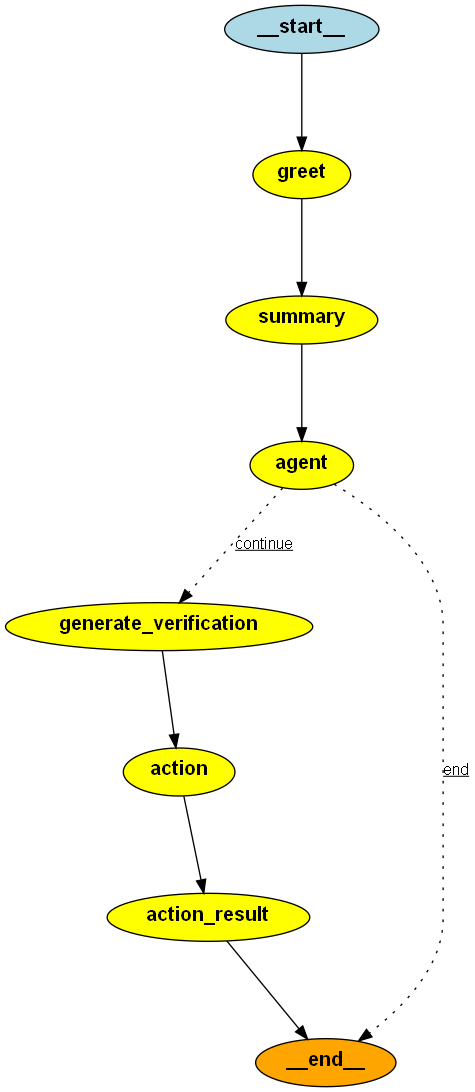
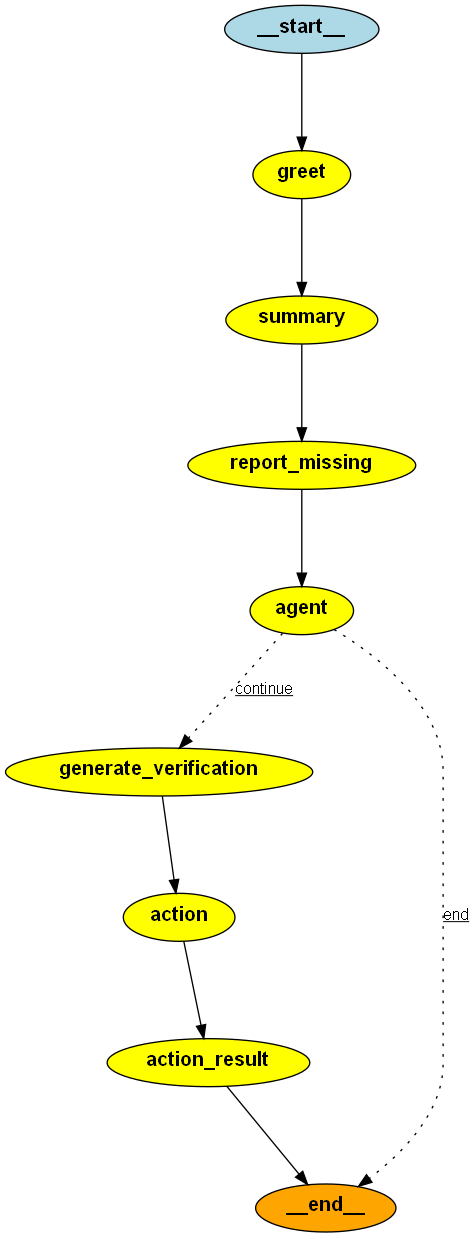
Graph workflow structure changed again

diff --git a/langgraph_agent/workflow.py b/langgraph_agent/workflow.py
@@ -37,7 +37,6 @@ class Workflow:
         return new_state
 
     def generate_dataset_summary(self, state):
-        print("summary")
         messages = state["messages"]
 
         tool_call = {
@@ -52,6 +51,8 @@ class Workflow:
             tool_input=tool_call["args"],
         )
         response = self.tool_executor.invoke(action)
+        print(response)
+        response = json.dumps(response, indent=4)
 
         tool_message = ToolMessage(
             content=str(response),
@@ -73,6 +74,47 @@ class Workflow:
             "messages": messages,
             "last_message_type": MessageTypes.CHAT,
             "last_called_tool": [tool_call]
+        }
+        return new_state
+
+    def report_missing_ratios(self, state):
+        messages = state["messages"]
+
+        tool_call = {
+            "name": "calculate_missing_values",
+            "args": {},
+            "id": "tool_call_2"  # Unique identifier for the tool call
+        }
+
+        # Create the ToolInvocation object
+        action = ToolInvocation(
+            tool=tool_call["name"],
+            tool_input=tool_call["args"],
+        )
+        response = self.tool_executor.invoke(action)
+        response = json.dumps(response, indent=4)
+
+        tool_message = ToolMessage(
+            content=str(response),
+            name=action.tool,
+            tool_call_id=tool_call["id"]
+        )
+
+        # We return a list, because this will get added to the existing list
+        messages += [tool_message]
+
+        result_prompt = (f"Write a result message about user's dataset. The following dictionary is the missing value "
+                         f"ratios of the dataset.\n{response}\nExamine the results for user. If missing value ratio of "
+                         f"any column is bigger then 5%, warn the user about this data considered as manipulated")
+
+        messages += [HumanMessage(content=result_prompt)]
+        response = self.model.llm.invoke(messages)
+        messages += [response]
+
+        new_state = {
+            "messages": messages,
+            "last_message_type": MessageTypes.CHAT,
+            "last_called_tool": state["last_called_tool"] + [tool_call]
         }
         return new_state
 
@@ -168,6 +210,7 @@ class Workflow:
 
         workflow.add_node("greet", self.generate_greeting)
         workflow.add_node("summary", self.generate_dataset_summary)
+        workflow.add_node("report_missing", self.report_missing_ratios)
         workflow.add_node("agent", self.call_model)
         workflow.add_node("generate_verification", self.generate_dynamic_verification)
         workflow.add_node("action", self.call_tool)
@@ -175,7 +218,8 @@ class Workflow:
 
         workflow.add_edge(START, "greet")
         workflow.add_edge("greet", "summary")
-        workflow.add_edge("summary", "agent")
+        workflow.add_edge("summary", "report_missing")
+        workflow.add_edge("report_missing", "agent")
         workflow.add_edge("generate_verification", "action")
         workflow.add_edge("action", "action_result")
         workflow.add_edge("action_result", END)

diff --git a/langgraph_agent/tools/tools.py b/langgraph_agent/tools/tools.py
@@ -14,7 +14,7 @@ class ToolEditor:
         self.tool_node = ToolNode(self.tools)
 
     def get_tools(self) -> list:
-        return [summarize_dataset, handle_missing_values]
+        return [summarize_dataset, calculate_missing_values, handle_missing_values]
 
 
 df = pd.read_csv(r"C:\Users\emirs\Documents\Projects\python\LanggraphGPT_DataProcessor\dataset\death_causes.csv")
@@ -57,10 +57,10 @@ def summarize_dataset() -> dict:
     for column in dataset.columns:
         col_data = dataset[column]
         summary[column]['type'] = str(col_data.dtype)
-        summary[column]['min'] = col_data.min()
-        summary[column]['max'] = col_data.max()
-        summary[column]['mean'] = col_data.mean() if col_data.dtype in ['int64', 'float64'] else None
-        summary[column]['median'] = col_data.median() if col_data.dtype in ['int64', 'float64'] else None
+        summary[column]['min'] = float(col_data.min()) if col_data.dtype in ['int64', 'float64'] else col_data.min()
+        summary[column]['max'] = float(col_data.max()) if col_data.dtype in ['int64', 'float64'] else col_data.max()
+        summary[column]['mean'] = float(col_data.mean()) if col_data.dtype in ['int64', 'float64'] else None
+        summary[column]['median'] = float(col_data.median()) if col_data.dtype in ['int64', 'float64'] else None
 
         try:
             summary[column]['mode'] = mode(col_data.dropna())
@@ -71,24 +71,28 @@ def summarize_dataset() -> dict:
 
 
 @tool
-def get_dataset_summary():
+def calculate_missing_values() -> dict:
     """
-    Generate a summary of the dataset.
-    This function retrieves a dataset,
-    computes descriptive statistics for all numerical columns in the dataset,
-    and returns the summary as a formatted string.
-    Parameters:
-    ----------
-    query : str
-        The query should be a valid string that can be used to fetch the relevant subset of the dataset.
+    Calculate the missing value ratios and counts for each column in a DataFrame.
+
     Returns:
-    -------
-    str
-        A string representation of the summary statistics for the dataset,
-        including metrics such as count, mean, standard deviation, min, max,
-        and quartiles for each numerical column.
+    - dict: A dictionary where the keys are column names and the values are dictionaries containing the
+      count and ratio of missing values for each column.
     """
-    return df.describe().to_string()
+    missing_values_info = {}
+
+    total_rows = len(df)
+
+    for column in df.columns:
+        missing_count = df[column].isna().sum()
+        missing_ratio = missing_count / total_rows
+
+        missing_values_info[column] = {
+            'missing_count': int(missing_count),
+            'missing_ratio': missing_ratio
+        }
+
+    return missing_values_info
 
 
 @tool

diff --git a/main.py b/main.py
@@ -22,14 +22,25 @@ async def on_chat_start():
             content=response.content, accept=["text/csv"], max_files=1
         ).send()
 
+    await cl.Message(content="Preparing dataset summary...").send()
     dataset = files[0]
     set_dataset(dataset.path)
     app.stream_app_catch_tool_calls()
 
     snapshot = app.app_runnable.get_state(app.thread)
-    message = snapshot.values["messages"][-2]
     print(snapshot.values)
-    await cl.Message(content=message.content).send()
+    tool_message = snapshot.values["messages"][-3]
+    tool_message_json = json.loads(tool_message.content)
+    await cl.Message(content=tool_message_json).send()
+
+    result_message = snapshot.values["messages"][-1]
+    await cl.Message(content=result_message.content).send()
+
+    actions = [
+        cl.Action(name="approve_preprocess", value="approve", description="approve"),
+        cl.Action(name="deny_preprocess", value="deny", description="deny"),
+    ]
+    await cl.Message(content="Do you want to continue with preprocessing steps?", actions=actions).send()
 
 
 # Set up Chainlit app
@@ -80,6 +91,29 @@ async def on_action_deny(action):
 
         response = app.stream_app_catch_tool_calls({"messages": [HumanMessage(content="Generate a notification message about user denied the tool call.")]})
         await cl.Message(content=response.content).send()
+
+
+@cl.action_callback("approve_preprocess")
+async def on_action_preprocessing_approve(action):
+    app.stream_app_catch_tool_calls()
+    await action.remove()
+
+    snapshot = app.app_runnable.get_state(app.thread)
+
+    tool_message = snapshot.values["messages"][-4]
+    tool_message_json = json.loads(tool_message.content)
+    await cl.Message(content=tool_message_json).send()
+
+    result_message = snapshot.values["messages"][-2]
+    await cl.Message(content=result_message.content).send()
+
+@cl.action_callback("deny_preprocess")
+async def on_action_preprocessing_deny(action):
+    snapshot = app.app_runnable.get_state(app.thread)
+    app.app_runnable.update_state(app.thread, snapshot.values, as_node="__end__")
+
+    app.stream_app_catch_tool_calls()
+    await action.remove()
 
 
 async def send_chainlit_message(content):

diff --git a/app.py b/app.py
@@ -13,7 +13,7 @@ class App:
         self.wf = Workflow()
         self.workflow = self.wf.workflow_model
         self.memory = MemorySaver()
-        self.app_runnable = self.workflow.compile(checkpointer=self.memory, interrupt_before=["summary", "action"])
+        self.app_runnable = self.workflow.compile(checkpointer=self.memory, interrupt_before=["summary", "report_missing", "action"])
         self.app_runnable.get_graph().draw_png("workflow_graph.png")
 
     # Helper function to stream output from the graph
